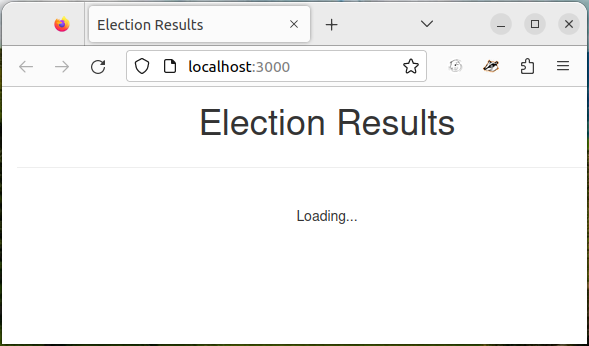
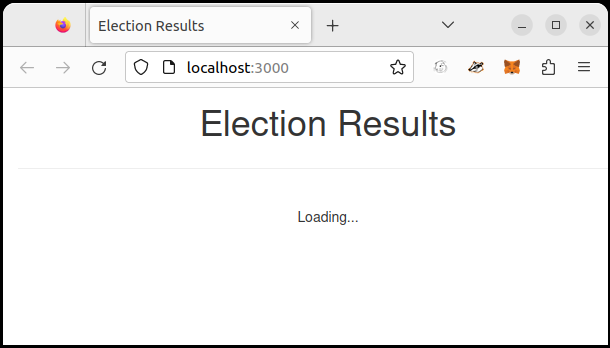
chore(dapp): import ganache acccounts

diff --git a/ethereum-dapp-tutorial/README3.md b/ethereum-dapp-tutorial/README3.md
@@ -217,6 +217,7 @@ You should see this:
 ```
 
 and in your browser you will see:
+
 ![](imgs/chilcano-dapp03-1-run-nodejs-app-browser.png)
 
 __3.3. Connect Metamask Wallet to Local Blockchai(Ganache)__
@@ -229,4 +230,22 @@ In order to interact with our dapp, specifically with our client side applicatio
 This is the reason we should install Metamask in our browser, load a valid wallet address that contains crypto money required to make transactions in our dapp.
 
 In simple words, making transactions thrrough smartcontracts rerquire `gas` that will be paid from our connected Wallet.
+
+![](imgs/chilcano-dapp03-2-nodejs-app-browser-wallet.png)
+
+![](imgs/chilcano-dapp03-3-wallet-add-local-blockchain.png)
+
+![](imgs/chilcano-dapp03-4-wallet-add-local-blockchain-manual.png)
+
+![](imgs/chilcano-dapp03-5-wallet-add-ganache.png)
+
+![](imgs/chilcano-dapp03-6-wallet-added-ganache.png)
+
+![](imgs/chilcano-dapp03-7-import-key-to-wallet.png)
+
+![](imgs/chilcano-dapp03-8-import-key-to-wallet.png)
+
+![](imgs/chilcano-dapp03-9-import-key-to-wallet.png)
+
+![](imgs/chilcano-dapp03-10-import-key-to-wallet.png)
 
